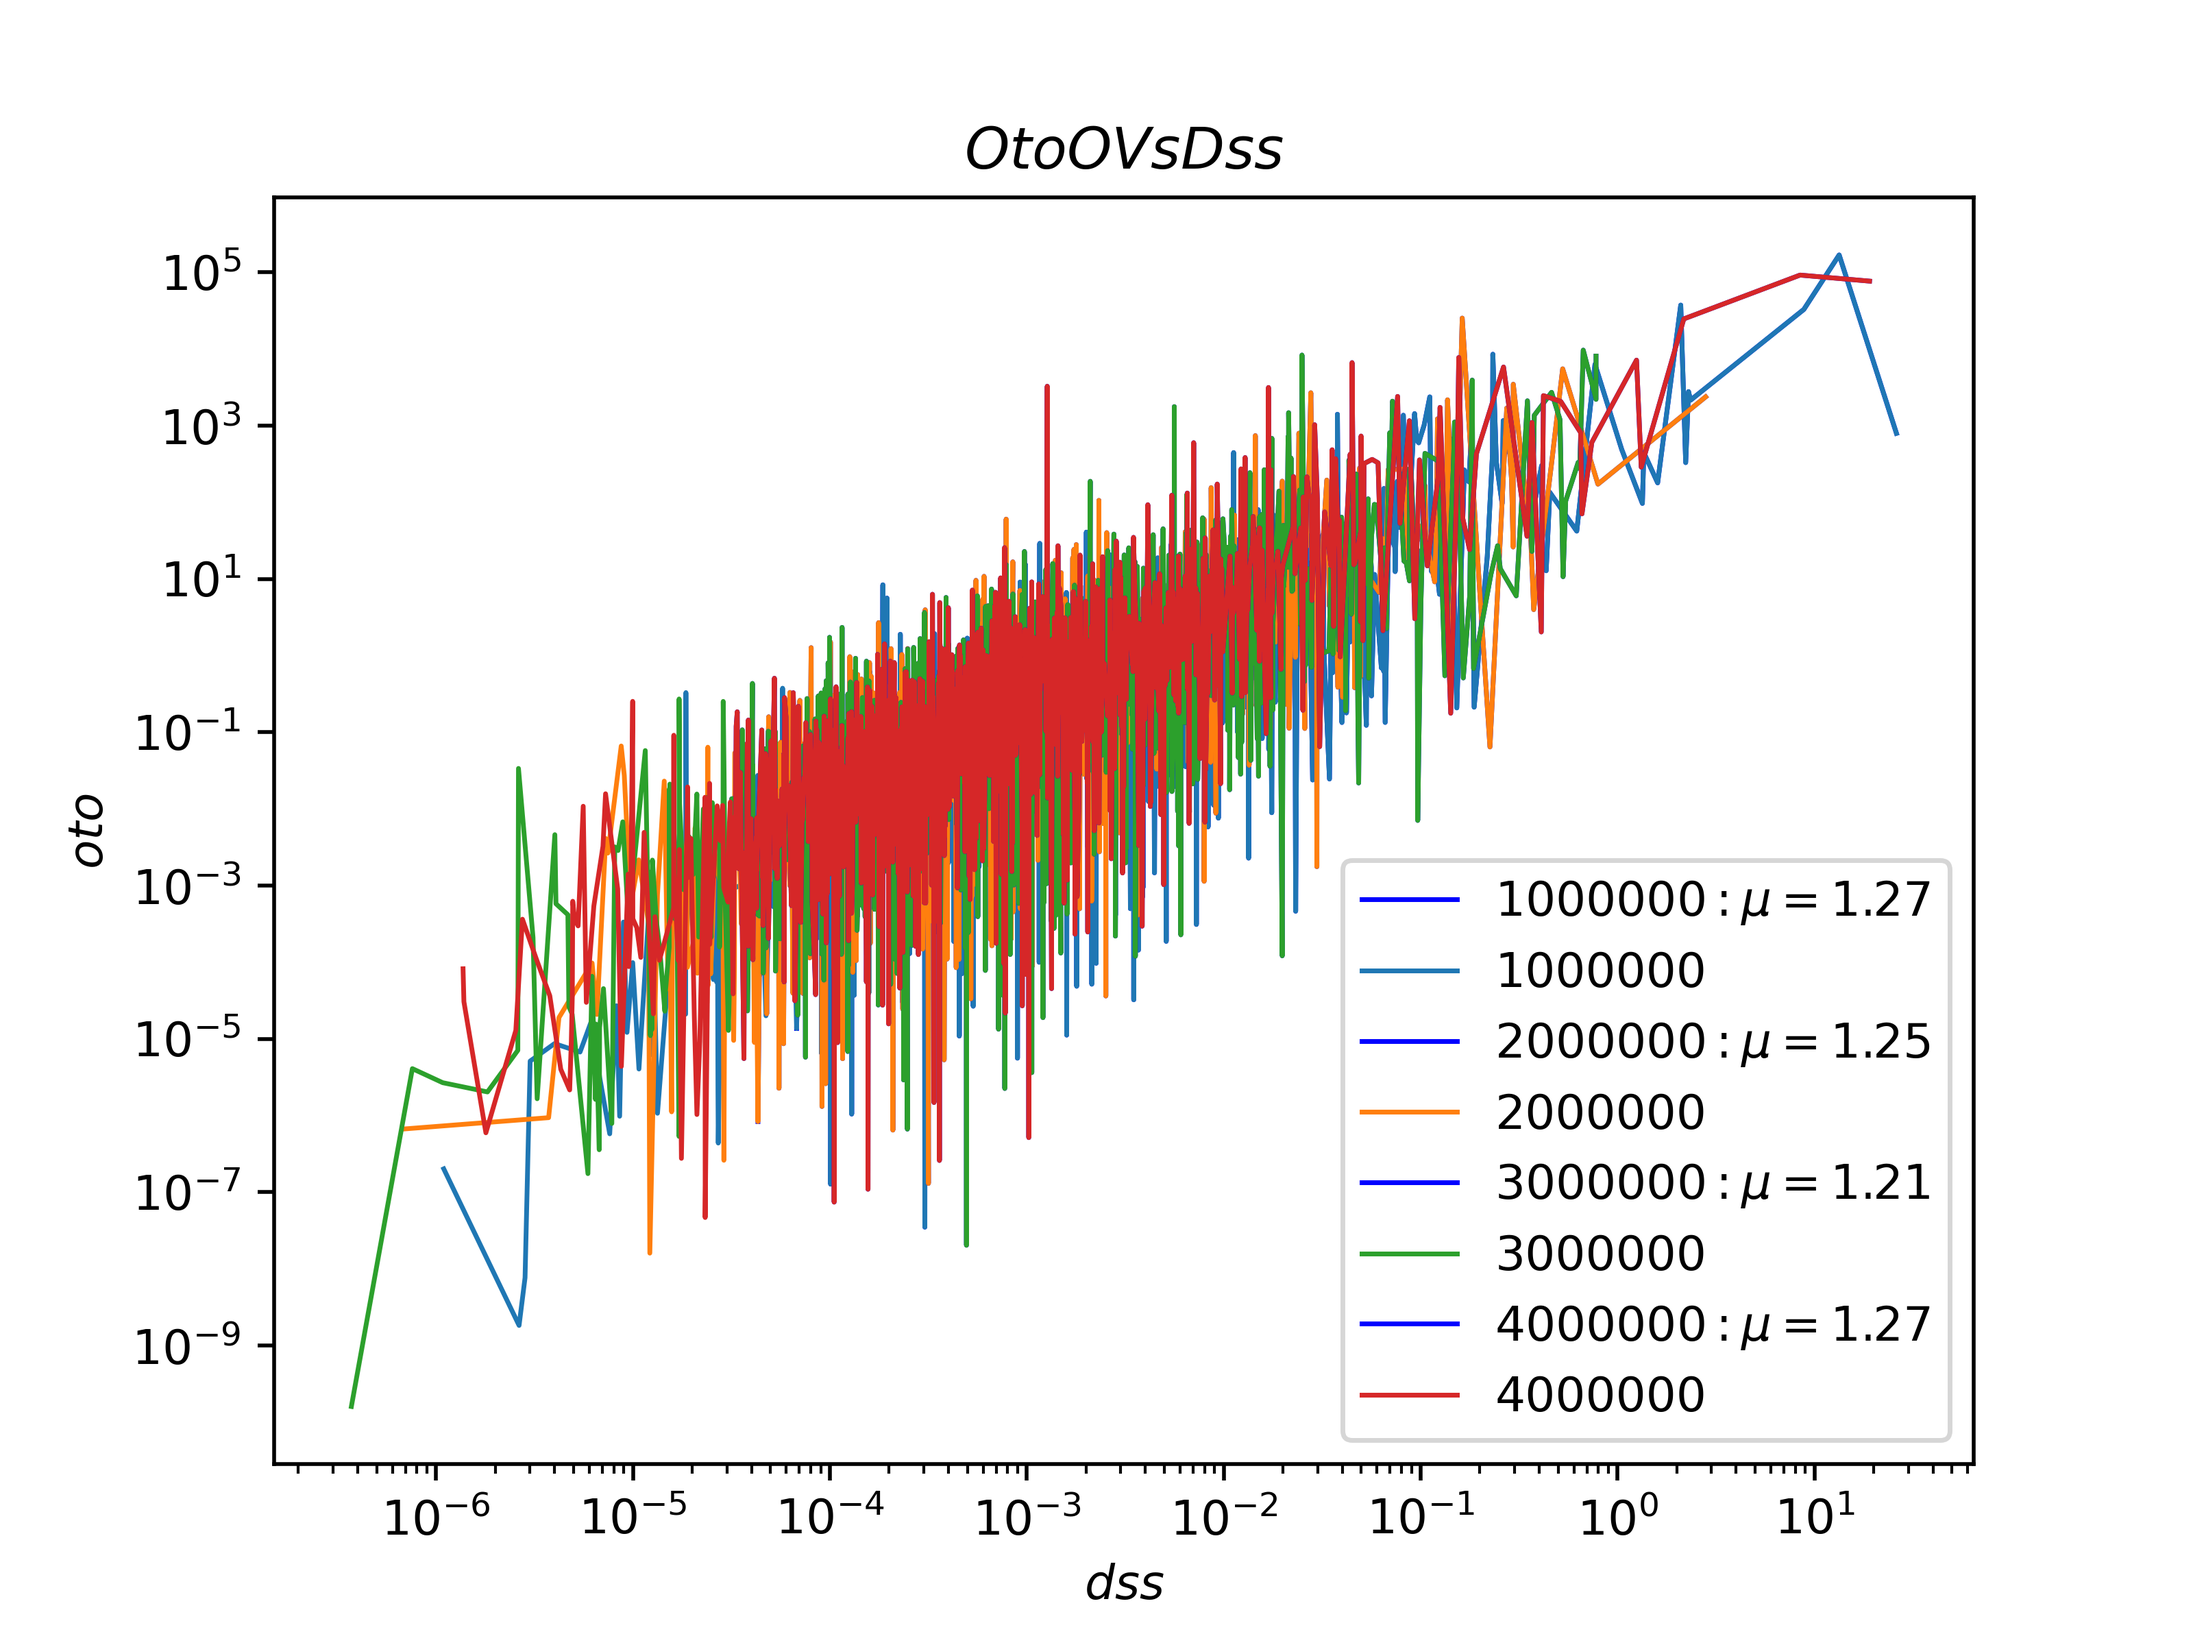
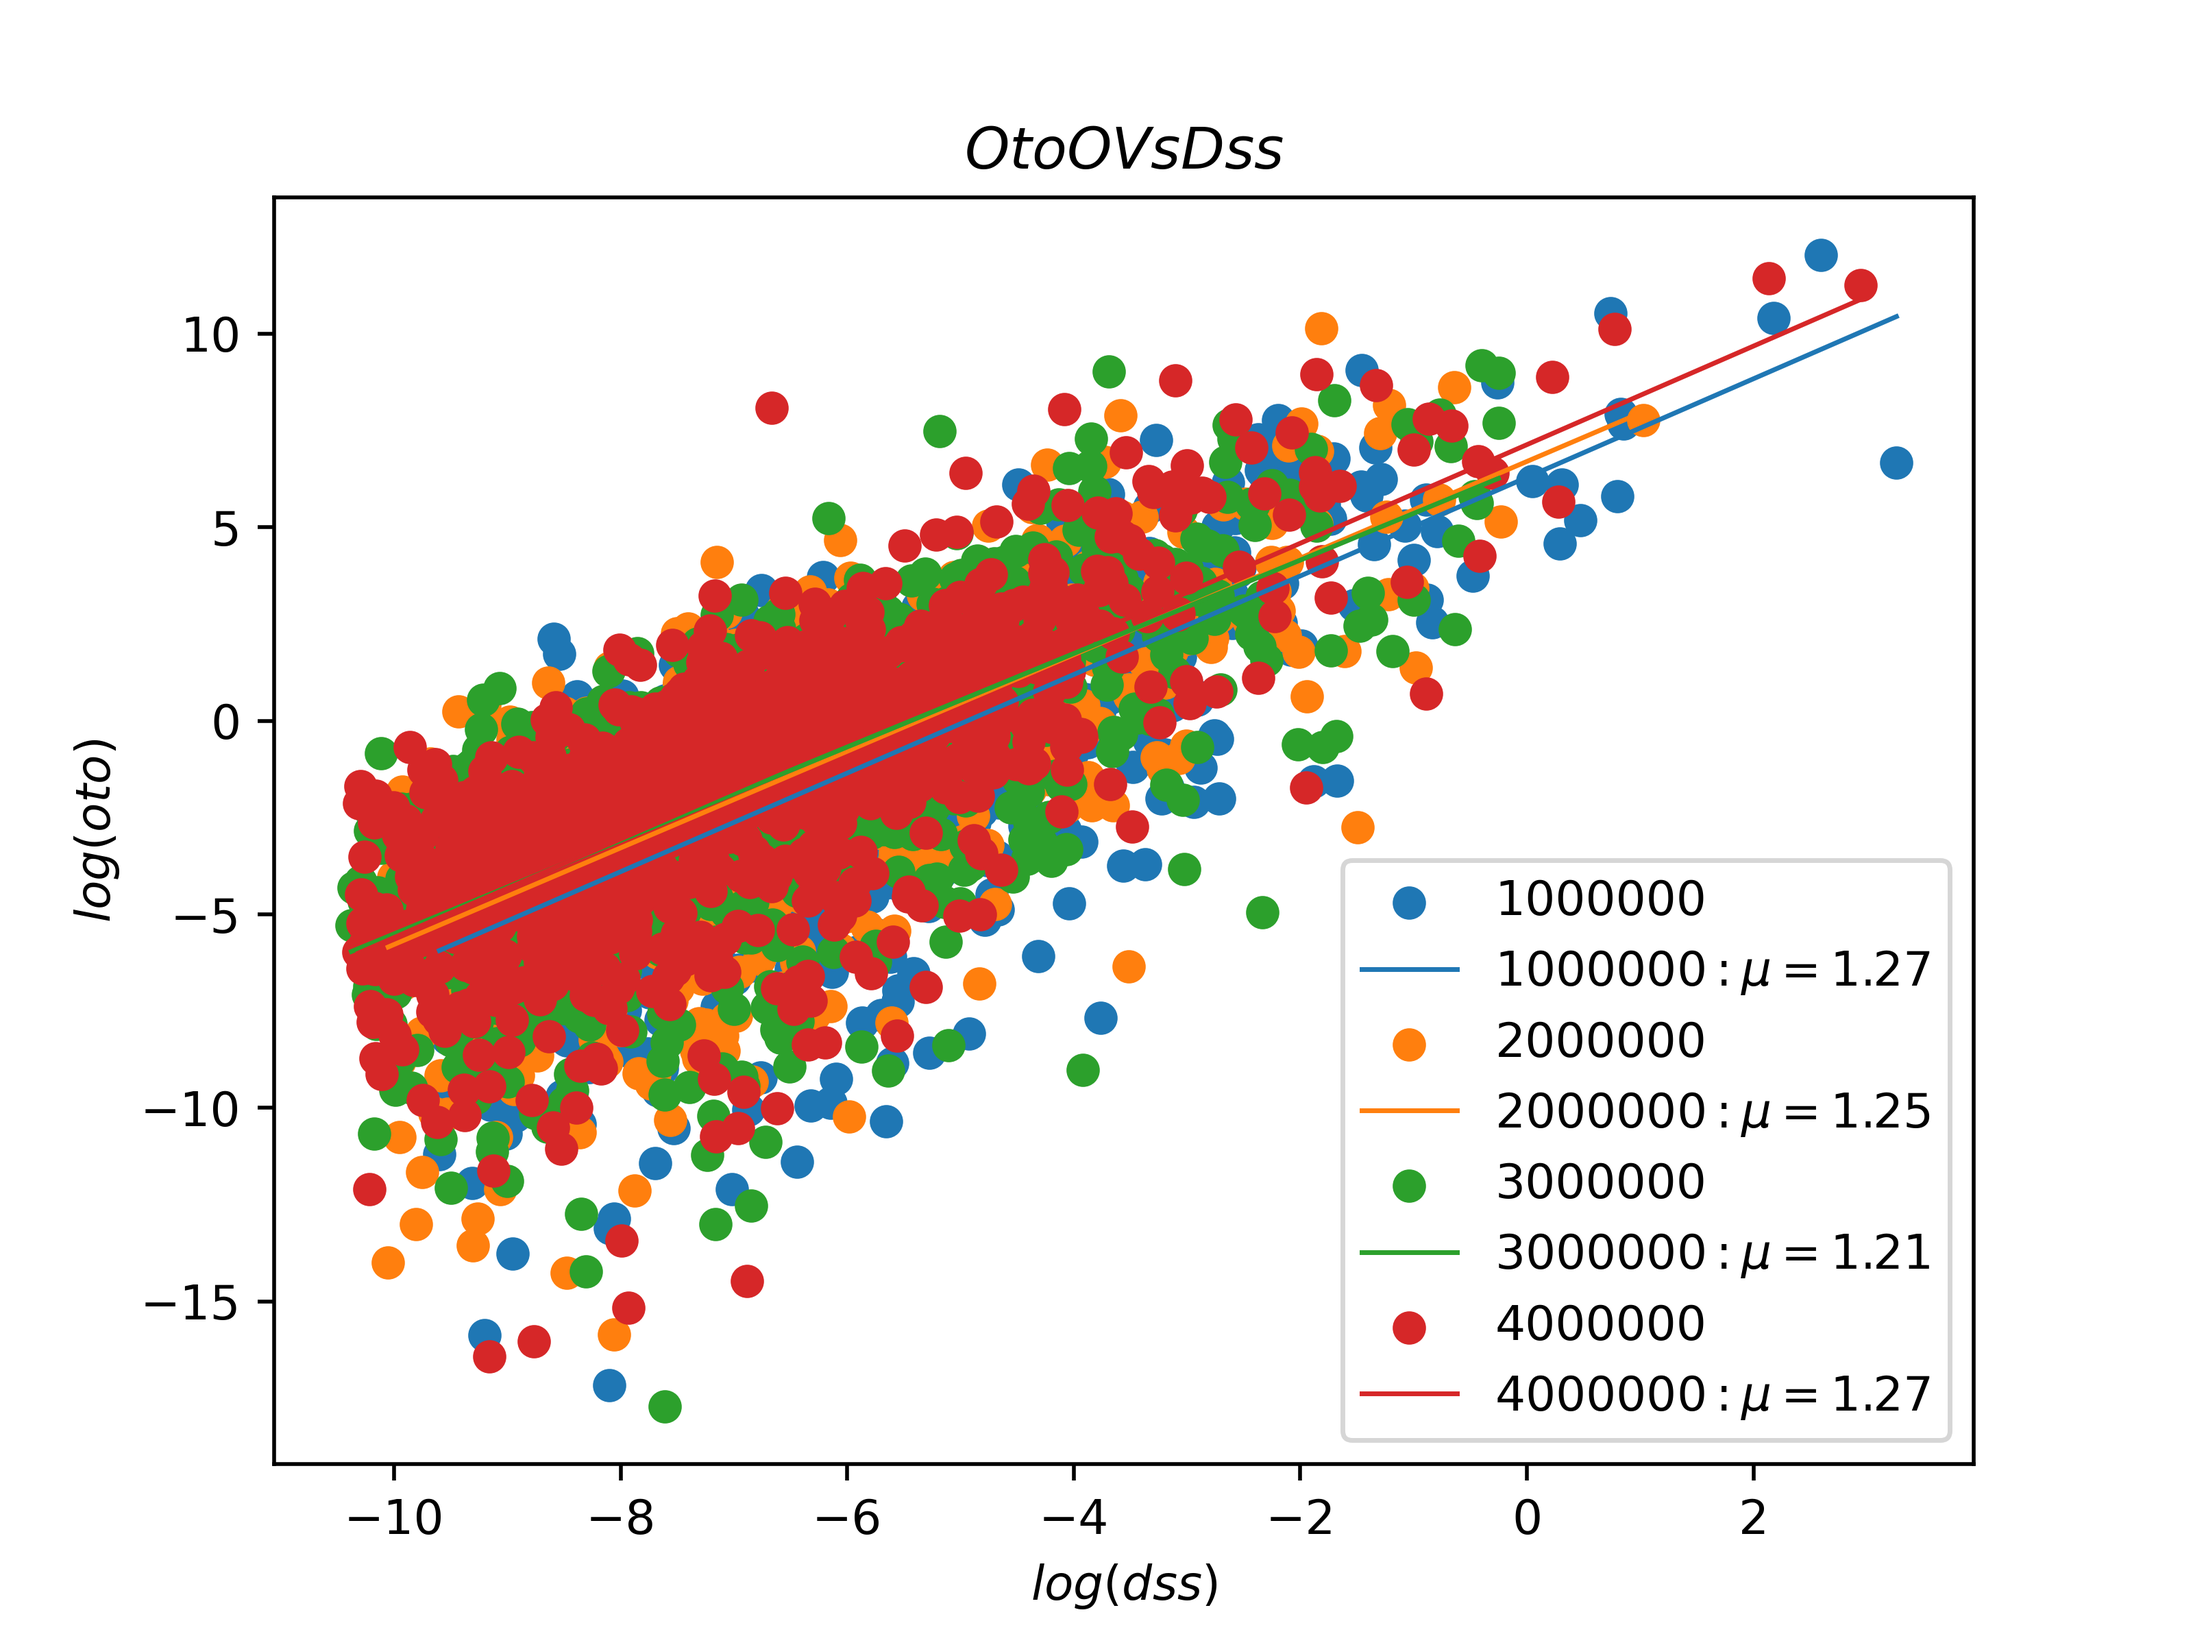
added one more plot for M = 1M to  4M pts

diff --git a/plot.py b/plot.py
@@ -437,8 +437,10 @@ def MultiXYPlot(data, plotpath, logx=True, logy=True, title='XY',scatter=False, 
                 t = np.log(y[-N:])
                 p = np.polyfit(l,t,  1)
                 lab = '$%s: \mu=%.2f$' % (name,p[0])
-                pylab.loglog(x[-N:],y[-N:], color="blue", linewidth=1., linestyle="-",label=lab)
-                pylab.loglog(x,y, linewidth=1., linestyle="-",label=name)
+                pylab.scatter(l,t, linewidth=1.,label=name)
+                pylab.plot(l,l*p[0] + p[1], linewidth=1.,label=lab)
+                pylab.set_xscale("log")
+                pylab.set_yscale("log")
             else:
                 if logy:
                     pylab.semilogy(x,y,  linewidth=1., linestyle="-",label=name)

diff --git a/VorticityCorrelation.py b/VorticityCorrelation.py
@@ -200,7 +200,7 @@ class FDPlotter():
             data.append([str(m),dss[pos],oto[pos]])
         try:
             plotpath = os.path.join(CorrFuncDir(M),"multi OtOvsDss.png")
-            MultiXYPlot(data, plotpath, logx=True, logy=True, title='OtoOVsDss',scatter=False, xlabel ='dss', ylabel='oto',frac_last=0.95)
+            MultiXYPlot(data, plotpath, logx=True, logy=True, title='OtoOVsDss',scatter=False, xlabel ='log(dss)', ylabel='log(oto)',frac_last=0.95)
         except Exception as ex:
             print(ex)
         print("made OtOvsDss " + str(M))
